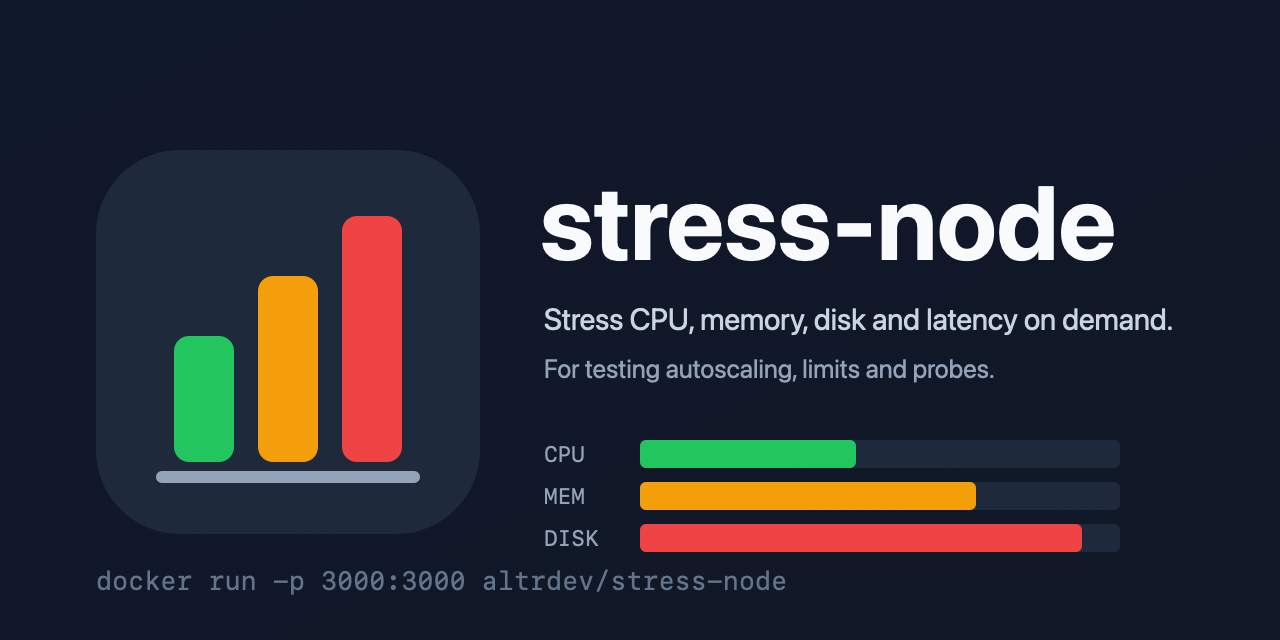
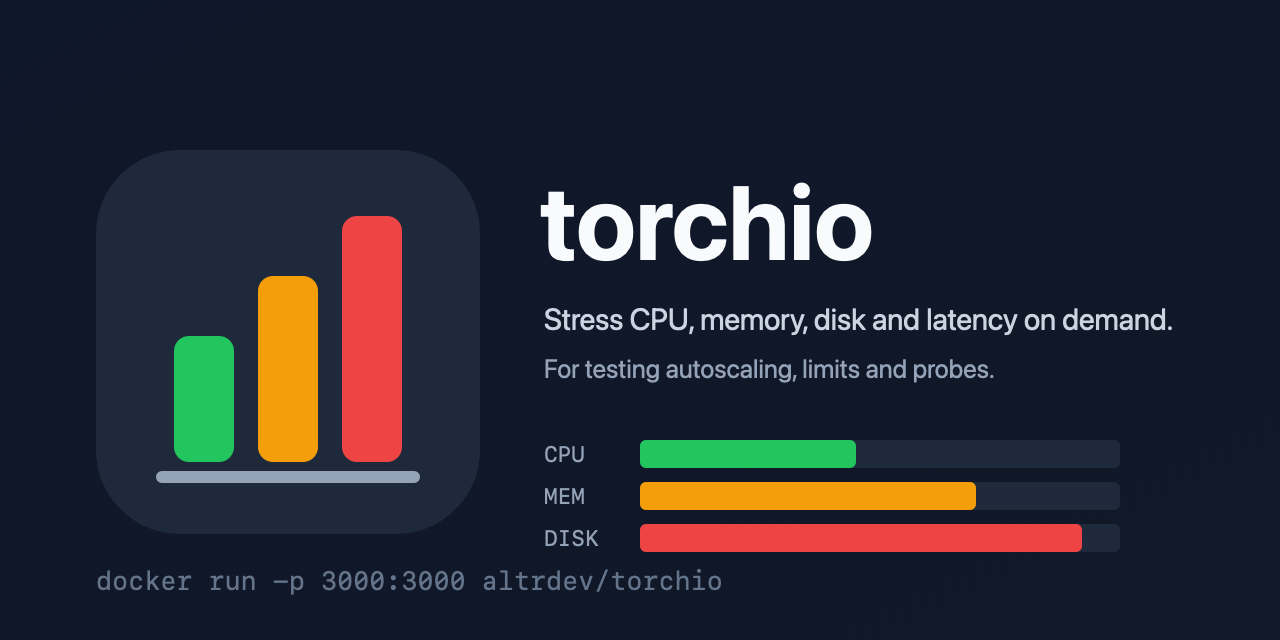
feat!: rename the project to Torchio
- package, image (altrdev/torchio), README, workflows, banner and animation
- Prometheus metrics start with torchio_ instead of stress_node_
- /info name is torchio; the files of /disk are torchio-disk-*
- README explains the name; changelog and version 3.0.0

Changed region(s): [[0.4062, 0.2812, 0.875, 0.4062], [0.5312, 0.875, 0.625, 0.9375], [0.4688, 0.9062, 0.5, 0.9375]]

diff --git a/test/server.test.js b/test/server.test.js
@@ -25,7 +25,7 @@ function freePort() {
 // Runs a real server on a free port, with small limits and its own DISK_DIR
 async function startServer(env = {}, prepare = () => {}) {
     const port = await freePort();
-    const diskDir = fs.mkdtempSync(path.join(os.tmpdir(), 'stress-node-test-'));
+    const diskDir = fs.mkdtempSync(path.join(os.tmpdir(), 'torchio-test-'));
     prepare(diskDir);
 
     const child = spawn(process.execPath, ['server.js'], {
@@ -55,7 +55,7 @@ async function startServer(env = {}, prepare = () => {}) {
     server.get = (route, options) => fetch(server.url + route, {signal: AbortSignal.timeout(10000), ...options});
     server.text = async (route) => (await server.get(route)).text();
     server.info = async () => (await server.get('/info')).json();
-    server.diskFiles = () => fs.readdirSync(diskDir).filter((name) => name.startsWith('stress-node-disk-'));
+    server.diskFiles = () => fs.readdirSync(diskDir).filter((name) => name.startsWith('torchio-disk-'));
     server.stop = async () => {
         if (child.exitCode === null) {
             child.kill('SIGTERM');
@@ -167,7 +167,7 @@ describe('endpoints', () => {
 
     test('/info describes the server', async () => {
         const info = await server.info();
-        assert.equal(info.name, 'stress-node');
+        assert.equal(info.name, 'torchio');
         assert.equal(info.version, version);
         assert.equal(info.stress.workers, 2);
         assert.deepEqual(info.stress.perWorker, [0, 0]);
@@ -195,13 +195,13 @@ describe('endpoints', () => {
                 assert.ok(declared.has(match[1]), `no TYPE before ${match[1]}`);
             }
         }
-        assert.match(body, new RegExp(`^stress_node_info\\{version="${version}"\\} 1$`, 'm'));
-        assert.match(body, /^stress_node_workers 2$/m);
-        assert.match(body, /^stress_node_memory_limit_bytes 314572800$/m);
+        assert.match(body, new RegExp(`^torchio_info\\{version="${version}"\\} 1$`, 'm'));
+        assert.match(body, /^torchio_workers 2$/m);
+        assert.match(body, /^torchio_memory_limit_bytes 314572800$/m);
 
         const counter = async (code) => {
             const text = await server.text('/metrics');
-            const match = new RegExp(`^stress_node_http_requests_total\\{route="/status/:code",code="${code}"\\} (\\d+)$`, 'm').exec(text);
+            const match = new RegExp(`^torchio_http_requests_total\\{route="/status/:code",code="${code}"\\} (\\d+)$`, 'm').exec(text);
             return match ? Number(match[1]) : 0;
         };
         const before = await counter(418);
@@ -210,7 +210,7 @@ describe('endpoints', () => {
         assert.equal(await counter(418), before + 2);
 
         await server.get('/memory?mb=100&hold=2');
-        assert.match(await server.text('/metrics'), new RegExp(`^stress_node_memory_held_bytes ${100 * MB}$`, 'm'));
+        assert.match(await server.text('/metrics'), new RegExp(`^torchio_memory_held_bytes ${100 * MB}$`, 'm'));
         await waitFor(async () => (await server.info()).memory.heldMb === 0, 4000, 'the memory to be released');
     });
 });
@@ -278,7 +278,7 @@ describe('configuration', () => {
 describe('files of /disk', () => {
     test('leftovers of a previous run are removed at startup, other files are kept', async () => {
         const server = await startServer({}, (dir) => {
-            fs.writeFileSync(path.join(dir, 'stress-node-disk-old'), 'leftover');
+            fs.writeFileSync(path.join(dir, 'torchio-disk-old'), 'leftover');
             fs.writeFileSync(path.join(dir, 'keep.txt'), 'mine');
         });
         try {
@@ -308,7 +308,7 @@ describe('cli watch', () => {
         try {
             await server.get('/memory?mb=100&hold=5');
             const output = execFileSync(process.execPath, ['cli.js', 'watch', '--once', '--url', server.url], {cwd: ROOT}).toString();
-            assert.match(output, new RegExp(`stress-node ${version.replace(/\./g, '\\.')}`));
+            assert.match(output, new RegExp(`torchio ${version.replace(/\./g, '\\.')}`));
             assert.match(output, /CPU workers .* 0 busy \/ 2/);
             assert.match(output, /Memory held .* 100 \/ 300 MB/);
             assert.match(output, /Disk held .* 0 \/ 300 MB/);

diff --git a/src/routes/metrics.js b/src/routes/metrics.js
@@ -18,22 +18,22 @@ module.exports = function createMetrics({version, startedAt, snapshot, counters}
         const {stress, delayInFlight, memory, disk} = await snapshot();
         const lines = [];
 
-        metric(lines, 'stress_node_info', 'gauge', 'Version of the server.', [[{version}, 1]]);
-        metric(lines, 'stress_node_start_time_seconds', 'gauge', 'Start time of the server, in Unix time.', [[null, startedAt / 1000]]);
-        metric(lines, 'stress_node_workers', 'gauge', 'Worker processes for /stress.', [[null, stress.workers]]);
-        metric(lines, 'stress_node_stress_requests_in_flight', 'gauge', '/stress requests being calculated.', [[null, stress.inFlight]]);
-        metric(lines, 'stress_node_worker_requests_in_flight', 'gauge', '/stress requests being calculated, by worker.',
+        metric(lines, 'torchio_info', 'gauge', 'Version of the server.', [[{version}, 1]]);
+        metric(lines, 'torchio_start_time_seconds', 'gauge', 'Start time of the server, in Unix time.', [[null, startedAt / 1000]]);
+        metric(lines, 'torchio_workers', 'gauge', 'Worker processes for /stress.', [[null, stress.workers]]);
+        metric(lines, 'torchio_stress_requests_in_flight', 'gauge', '/stress requests being calculated.', [[null, stress.inFlight]]);
+        metric(lines, 'torchio_worker_requests_in_flight', 'gauge', '/stress requests being calculated, by worker.',
             stress.perWorker.map((count, index) => [{worker: index}, count]));
-        metric(lines, 'stress_node_delay_requests_in_flight', 'gauge', '/delay requests still waiting.', [[null, delayInFlight]]);
-        metric(lines, 'stress_node_memory_held_bytes', 'gauge', 'Memory held by /memory.', [[null, memory.heldMb * MB]]);
-        metric(lines, 'stress_node_memory_limit_bytes', 'gauge', 'Total memory /memory may hold (MAX_MEMORY_MB).', [[null, memory.limitMb * MB]]);
+        metric(lines, 'torchio_delay_requests_in_flight', 'gauge', '/delay requests still waiting.', [[null, delayInFlight]]);
+        metric(lines, 'torchio_memory_held_bytes', 'gauge', 'Memory held by /memory.', [[null, memory.heldMb * MB]]);
+        metric(lines, 'torchio_memory_limit_bytes', 'gauge', 'Total memory /memory may hold (MAX_MEMORY_MB).', [[null, memory.limitMb * MB]]);
         metric(lines, 'process_resident_memory_bytes', 'gauge', 'Resident memory of the server process.', [[null, memory.rssBytes]]);
-        metric(lines, 'stress_node_container_memory_limit_bytes', 'gauge', 'Memory limit of the container, when there is one.',
+        metric(lines, 'torchio_container_memory_limit_bytes', 'gauge', 'Memory limit of the container, when there is one.',
             memory.containerLimitBytes === null ? [] : [[null, memory.containerLimitBytes]]);
-        metric(lines, 'stress_node_disk_held_bytes', 'gauge', 'Disk space held by /disk.', [[null, disk.heldMb * MB]]);
-        metric(lines, 'stress_node_disk_limit_bytes', 'gauge', 'Total disk space /disk may hold (MAX_DISK_MB).', [[null, disk.limitMb * MB]]);
-        metric(lines, 'stress_node_disk_free_bytes', 'gauge', 'Free space in DISK_DIR.', disk.freeBytes === null ? [] : [[null, disk.freeBytes]]);
-        metric(lines, 'stress_node_http_requests_total', 'counter', 'Requests answered, by route and status code.',
+        metric(lines, 'torchio_disk_held_bytes', 'gauge', 'Disk space held by /disk.', [[null, disk.heldMb * MB]]);
+        metric(lines, 'torchio_disk_limit_bytes', 'gauge', 'Total disk space /disk may hold (MAX_DISK_MB).', [[null, disk.limitMb * MB]]);
+        metric(lines, 'torchio_disk_free_bytes', 'gauge', 'Free space in DISK_DIR.', disk.freeBytes === null ? [] : [[null, disk.freeBytes]]);
+        metric(lines, 'torchio_http_requests_total', 'counter', 'Requests answered, by route and status code.',
             counters.entries().map(({route, code, count}) => [{route, code}, count]));
 
         res.type('text/plain; version=0.0.4; charset=utf-8').send(lines.join('\n') + '\n');

diff --git a/cli.js b/cli.js
@@ -1,5 +1,5 @@
 #!/usr/bin/env node
-// Terminal view of what a stress-node server is doing, built on its /info endpoint.
+// Terminal view of what a torchio server is doing, built on its /info endpoint.
 //   node cli.js watch [--url http://host:3000] [--interval 1] [--once]
 const {parseArgs} = require('node:util');
 

diff --git a/src/routes/disk.js b/src/routes/disk.js
@@ -3,7 +3,7 @@ const path = require('path');
 const {Budget} = require('../budget');
 const {readParams} = require('../params');
 
-const PREFIX = 'stress-node-disk-';
+const PREFIX = 'torchio-disk-';
 const chunk = Buffer.alloc(1024 * 1024, 1);
 
 async function writeFile(file, mb) {

diff --git a/src/config.js b/src/config.js
@@ -14,7 +14,7 @@ function positiveInt(name, fallback) {
 }
 
 module.exports = {
-    name: 'stress-node',
+    name: 'torchio',
     port: positiveInt('PORT', 3000),
     host: '0.0.0.0',
     workers: positiveInt('WORKERS', os.cpus().length),

diff --git a/README.md b/README.md
@@ -1,12 +1,14 @@
-# stress-node
+# torchio
 
-[![CI](https://github.com/altrdev/stress-node/actions/workflows/ci.yml/badge.svg)](https://github.com/altrdev/stress-node/actions/workflows/ci.yml) [![Docker image](https://img.shields.io/docker/v/altrdev/stress-node?sort=semver&label=docker%20image)](https://hub.docker.com/r/altrdev/stress-node) [![Docker pulls](https://img.shields.io/docker/pulls/altrdev/stress-node)](https://hub.docker.com/r/altrdev/stress-node) [![License](https://img.shields.io/github/license/altrdev/stress-node)](https://github.com/altrdev/stress-node/blob/main/LICENSE)
+[![CI](https://github.com/altrdev/torchio/actions/workflows/ci.yml/badge.svg)](https://github.com/altrdev/torchio/actions/workflows/ci.yml) [![Docker image](https://img.shields.io/docker/v/altrdev/torchio?sort=semver&label=docker%20image)](https://hub.docker.com/r/altrdev/torchio) [![Docker pulls](https://img.shields.io/docker/pulls/altrdev/torchio)](https://hub.docker.com/r/altrdev/torchio) [![License](https://img.shields.io/github/license/altrdev/torchio)](https://github.com/altrdev/torchio/blob/main/LICENSE)
 
-**Break your containers on purpose.** stress-node is a small Node.js server that burns CPU, holds memory, fills disk, answers slowly or returns any HTTP status, all on demand over HTTP. Use it to see how your setup behaves under pressure: autoscaling, resource limits, OOM kills, probes, timeouts and retries.
+**Break your containers on purpose.** torchio is a small Node.js server that burns CPU, holds memory, fills disk, answers slowly or returns any HTTP status, all on demand over HTTP. Use it to see how your setup behaves under pressure: autoscaling, resource limits, OOM kills, probes, timeouts and retries.
 
-![stress-node watch: bars and history of busy workers, held memory, process RSS and held disk, while a load runs](https://raw.githubusercontent.com/altrdev/stress-node/refs/heads/main/docs/watch.svg)
+*Torchio* is the Italian word for the press that squeezes wine and oil, as in *mettere sotto torchio*: to put under pressure. Put your containers under the press. It was called `stress-node` before, and `high-cpu-node` when it could only burn CPU.
 
-Source code and issues: https://github.com/altrdev/stress-node
+![torchio watch: bars and history of busy workers, held memory, process RSS and held disk, while a load runs](https://raw.githubusercontent.com/altrdev/torchio/refs/heads/main/docs/watch.svg)
+
+Source code and issues: https://github.com/altrdev/torchio
 
 > **Warning:** this server is meant to consume resources on purpose. Don't expose it to the public internet.
 
@@ -15,14 +17,14 @@ Source code and issues: https://github.com/altrdev/stress-node
 Start the server with Docker:
 
 ```
-docker run --name stress -p 3000:3000 altrdev/stress-node
+docker run --name torchio -p 3000:3000 altrdev/torchio
 ```
 
 Or on your local machine (Node.js 22 or later):
 
 ```
-git clone https://github.com/altrdev/stress-node.git
-cd stress-node
+git clone https://github.com/altrdev/torchio.git
+cd torchio
 npm install
 npm start
 ```
@@ -30,7 +32,7 @@ npm start
 In a second terminal, watch what it does:
 
 ```
-docker exec -it stress node cli.js watch    # with Docker
+docker exec -it torchio node cli.js watch    # with Docker
 npm run watch                               # on your local machine
 ```
 
@@ -49,7 +51,7 @@ for i in 1 2; do curl -s "http://127.0.0.1:3000/stress?number=44" & done; wait
 Give the container a memory limit and ask for more than that:
 
 ```
-docker run -d --name oom -m 256m -e MAX_MEMORY_MB=1024 -p 3000:3000 altrdev/stress-node
+docker run -d --name oom -m 256m -e MAX_MEMORY_MB=1024 -p 3000:3000 altrdev/torchio
 curl "http://127.0.0.1:3000/memory?mb=400"
 docker inspect -f '{{.State.OOMKilled}}' oom
 ```
@@ -180,8 +182,8 @@ Returns a JSON document with what the server is doing right now. It takes no par
 
 ```json
 {
-  "name": "stress-node",
-  "version": "2.5.3",
+  "name": "torchio",
+  "version": "3.0.0",
   "uptimeSeconds": 321,
   "stress": { "workers": 4, "inFlight": 2, "perWorker": [1, 1, 0, 0] },
   "delay": { "inFlight": 3 },
@@ -207,35 +209,35 @@ The figures of [`/info`](#info) in the Prometheus text format, plus a counter of
 
 | Metric                                      | Type    | Meaning                                                     |
 |---------------------------------------------|---------|-------------------------------------------------------------|
-| `stress_node_info{version}`                 | gauge   | Always `1`, the version is in the label                     |
-| `stress_node_start_time_seconds`            | gauge   | Start time, in Unix time                                    |
-| `stress_node_workers`                       | gauge   | Worker processes for `/stress`                              |
-| `stress_node_stress_requests_in_flight`     | gauge   | `/stress` requests being calculated                         |
-| `stress_node_worker_requests_in_flight{worker}` | gauge | The same, for each worker                                 |
-| `stress_node_delay_requests_in_flight`      | gauge   | `/delay` requests still waiting                             |
-| `stress_node_memory_held_bytes`             | gauge   | Memory held by `/memory`                                    |
-| `stress_node_memory_limit_bytes`            | gauge   | Total memory `/memory` may hold (`MAX_MEMORY_MB`)           |
+| `torchio_info{version}`                 | gauge   | Always `1`, the version is in the label                     |
+| `torchio_start_time_seconds`            | gauge   | Start time, in Unix time                                    |
+| `torchio_workers`                       | gauge   | Worker processes for `/stress`                              |
+| `torchio_stress_requests_in_flight`     | gauge   | `/stress` requests being calculated                         |
+| `torchio_worker_requests_in_flight{worker}` | gauge | The same, for each worker                                 |
+| `torchio_delay_requests_in_flight`      | gauge   | `/delay` requests still waiting                             |
+| `torchio_memory_held_bytes`             | gauge   | Memory held by `/memory`                                    |
+| `torchio_memory_limit_bytes`            | gauge   | Total memory `/memory` may hold (`MAX_MEMORY_MB`)           |
 | `process_resident_memory_bytes`             | gauge   | Resident memory of the whole process                        |
-| `stress_node_container_memory_limit_bytes`  | gauge   | Memory limit of the container, only present when there is one |
-| `stress_node_disk_held_bytes`               | gauge   | Disk space held by `/disk`                                  |
-| `stress_node_disk_limit_bytes`              | gauge   | Total disk space `/disk` may hold (`MAX_DISK_MB`)           |
-| `stress_node_disk_free_bytes`               | gauge   | Free space in `DISK_DIR`, only present when it is usable    |
-| `stress_node_http_requests_total{route,code}` | counter | Requests answered, by route pattern (such as `/status/:code`) and status code. A request the client abandons before the answer is not counted |
+| `torchio_container_memory_limit_bytes`  | gauge   | Memory limit of the container, only present when there is one |
+| `torchio_disk_held_bytes`               | gauge   | Disk space held by `/disk`                                  |
+| `torchio_disk_limit_bytes`              | gauge   | Total disk space `/disk` may hold (`MAX_DISK_MB`)           |
+| `torchio_disk_free_bytes`               | gauge   | Free space in `DISK_DIR`, only present when it is usable    |
+| `torchio_http_requests_total{route,code}` | counter | Requests answered, by route pattern (such as `/status/:code`) and status code. A request the client abandons before the answer is not counted |
 
 To collect them with Prometheus:
 
 ```yaml
 scrape_configs:
-  - job_name: stress-node
+  - job_name: torchio
     static_configs:
-      - targets: ["stress-node:3000"]
+      - targets: ["torchio:3000"]
 ```
 
 Some queries to start from:
 
-- `stress_node_memory_held_bytes / stress_node_memory_limit_bytes` is how much of the `/memory` budget is used.
-- `process_resident_memory_bytes / stress_node_container_memory_limit_bytes` is how close the process is to an OOM kill.
-- `rate(stress_node_http_requests_total{code=~"4..|5.."}[1m])` is the rate of rejected and failed requests (`429`, `507`, `/status/...`).
+- `torchio_memory_held_bytes / torchio_memory_limit_bytes` is how much of the `/memory` budget is used.
+- `process_resident_memory_bytes / torchio_container_memory_limit_bytes` is how close the process is to an OOM kill.
+- `rate(torchio_http_requests_total{code=~"4..|5.."}[1m])` is the rate of rejected and failed requests (`429`, `507`, `/status/...`).
 
 ## Watching a server
 
@@ -278,7 +280,7 @@ Environment variables:
 A number must be a positive integer. A value that is not one is reported at startup and replaced by the default.
 
 ```
-docker run -p 3000:3000 -e WORKERS=2 -e MAX_MEMORY_MB=2048 altrdev/stress-node:latest
+docker run -p 3000:3000 -e WORKERS=2 -e MAX_MEMORY_MB=2048 altrdev/torchio:latest
 ```
 
 ## Docker
@@ -292,7 +294,7 @@ The image is built for `linux/amd64` and `linux/arm64`, runs as the non-root `no
 ```yaml
 services:
   stress:
-    image: altrdev/stress-node:latest
+    image: altrdev/torchio:latest
     ports:
       - "3000:3000"
     environment:
@@ -313,20 +315,20 @@ A pod with a memory limit and probes on `/`:
 apiVersion: apps/v1
 kind: Deployment
 metadata:
-  name: stress-node
+  name: torchio
 spec:
   replicas: 1
   selector:
     matchLabels:
-      app: stress-node
+      app: torchio
   template:
     metadata:
       labels:
-        app: stress-node
+        app: torchio
     spec:
       containers:
-        - name: stress-node
-          image: altrdev/stress-node:latest
+        - name: torchio
+          image: altrdev/torchio:latest
           ports:
             - containerPort: 3000
           env:
@@ -351,7 +353,7 @@ spec:
               port: 3000
 ```
 
-Some things to try, after `kubectl port-forward deploy/stress-node 3000:3000`:
+Some things to try, after `kubectl port-forward deploy/torchio 3000:3000`:
 
 - `/stress?number=45` on several terminals keeps the container at its CPU limit, which you can watch with `kubectl top pod` or use to trigger a CPU-based autoscaler.
 - `/memory?mb=400` goes above the `256Mi` limit, so the container should be OOM killed and restarted.
@@ -419,11 +421,11 @@ The tests use `node:test`, which comes with Node.js, so there is nothing to inst
 
 ## Changelog
 
-See [CHANGELOG.md](https://github.com/altrdev/stress-node/blob/main/CHANGELOG.md) and the [GitHub releases](https://github.com/altrdev/stress-node/releases).
+See [CHANGELOG.md](https://github.com/altrdev/torchio/blob/main/CHANGELOG.md) and the [GitHub releases](https://github.com/altrdev/torchio/releases).
 
 ## Security
 
-This tool is meant to consume resources, so run it only in environments you control and don't expose it to the internet. If you find a security problem, please open an issue at https://github.com/altrdev/stress-node/issues.
+This tool is meant to consume resources, so run it only in environments you control and don't expose it to the internet. If you find a security problem, please open an issue at https://github.com/altrdev/torchio/issues.
 
 ## License
 

diff --git a/CHANGELOG.md b/CHANGELOG.md
@@ -2,6 +2,13 @@
 
 All notable changes to this project are documented here. The GitHub release of each version uses the matching section.
 
+## 3.0.0 - 2026-10-18
+
+### Changed
+- **Breaking:** the project is renamed from `stress-node` to **Torchio**. The Docker image is `altrdev/torchio`, the package is `torchio` and the repository is `github.com/altrdev/torchio`. The `altrdev/stress-node` image no longer exists, and `altrdev/high-cpu-node` stays deprecated.
+- **Breaking:** the Prometheus metrics start with `torchio_` instead of `stress_node_`. `process_resident_memory_bytes` keeps its name.
+- The `name` in `/info` is `torchio`, and the files of `/disk` are called `torchio-disk-*`.
+
 ## 2.5.3 - 2026-10-18
 
 ### Changed
